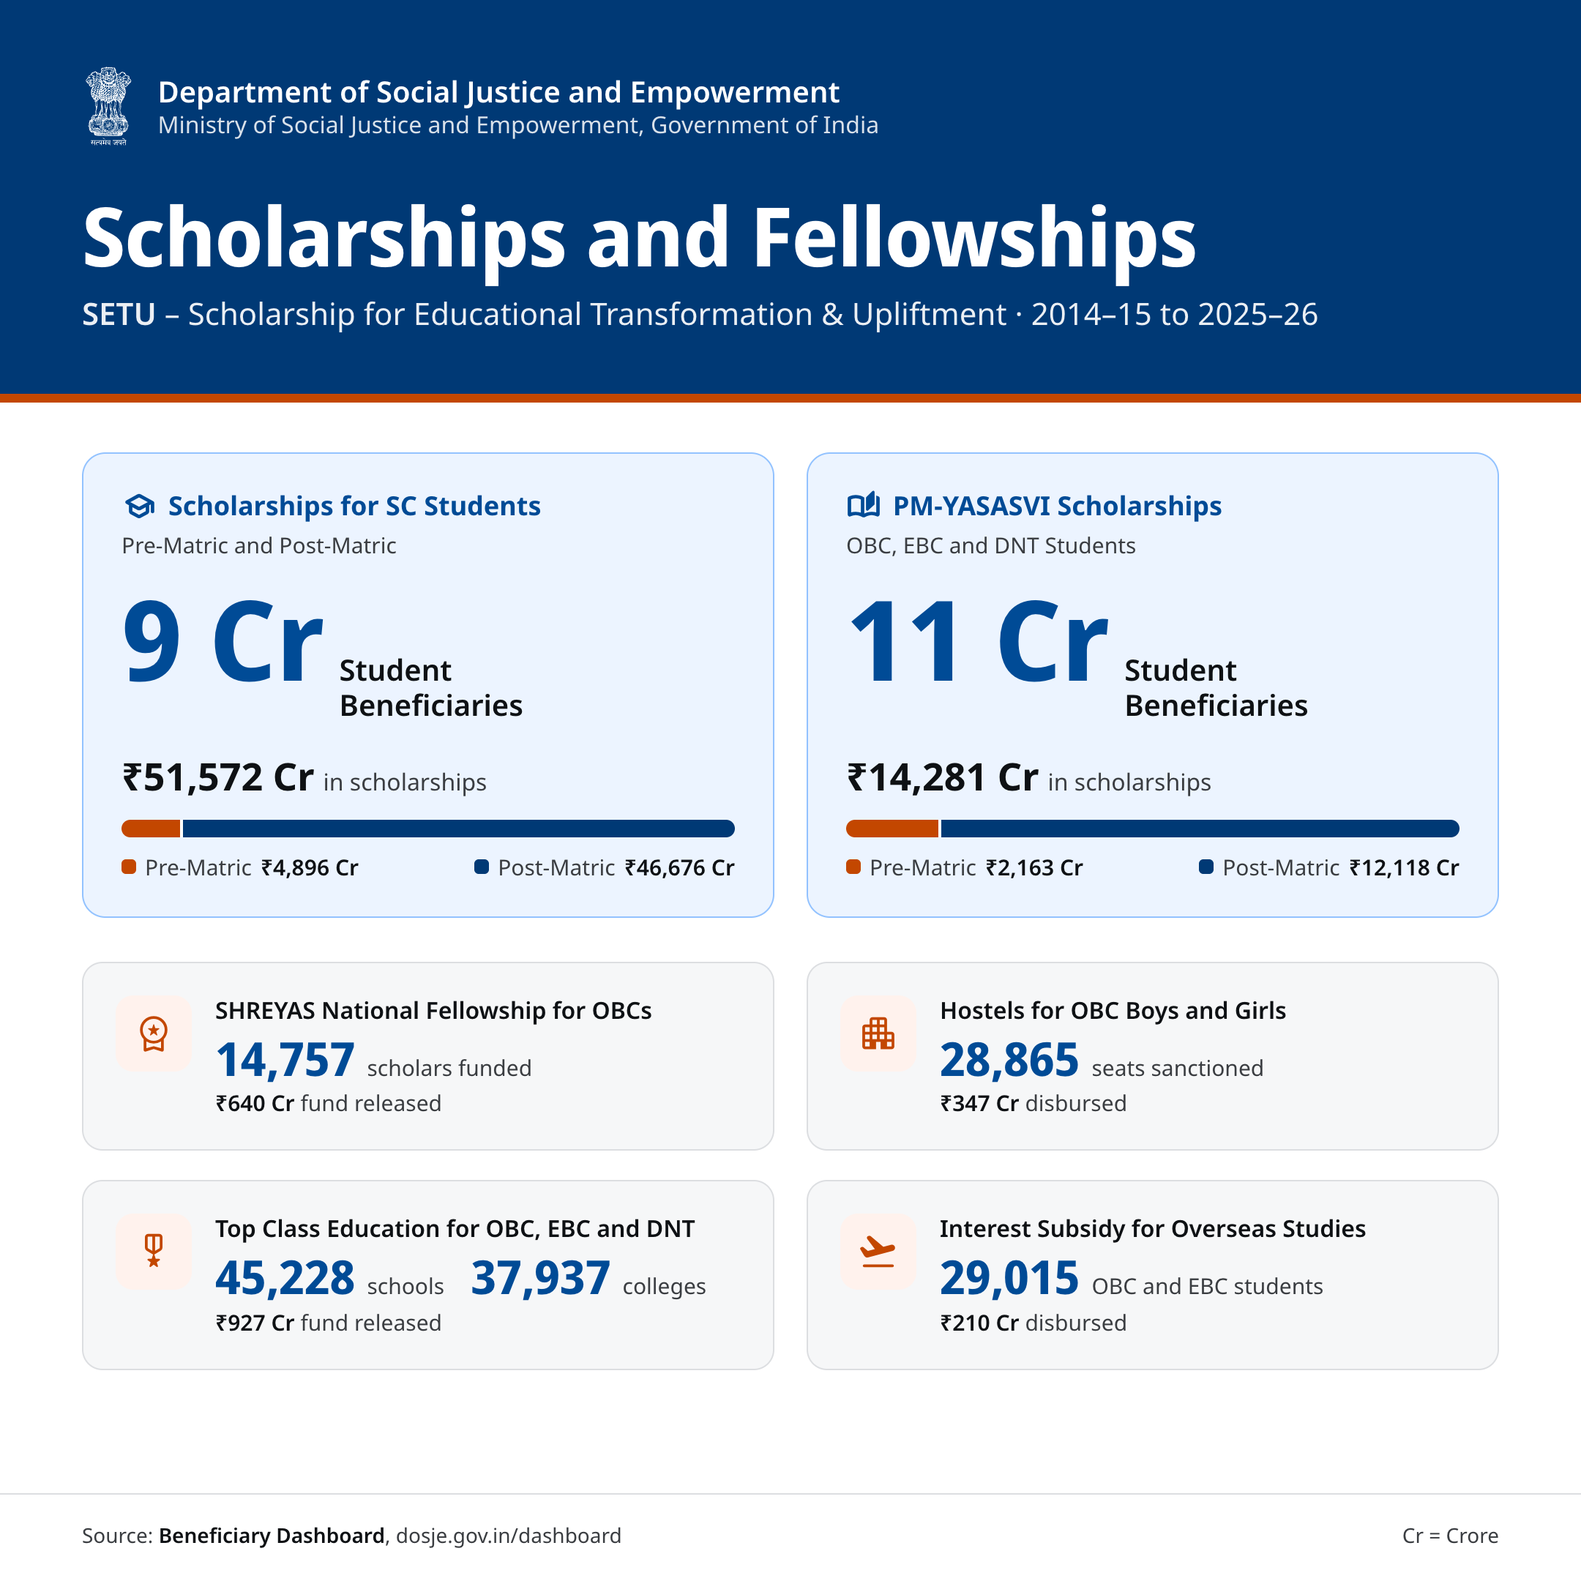
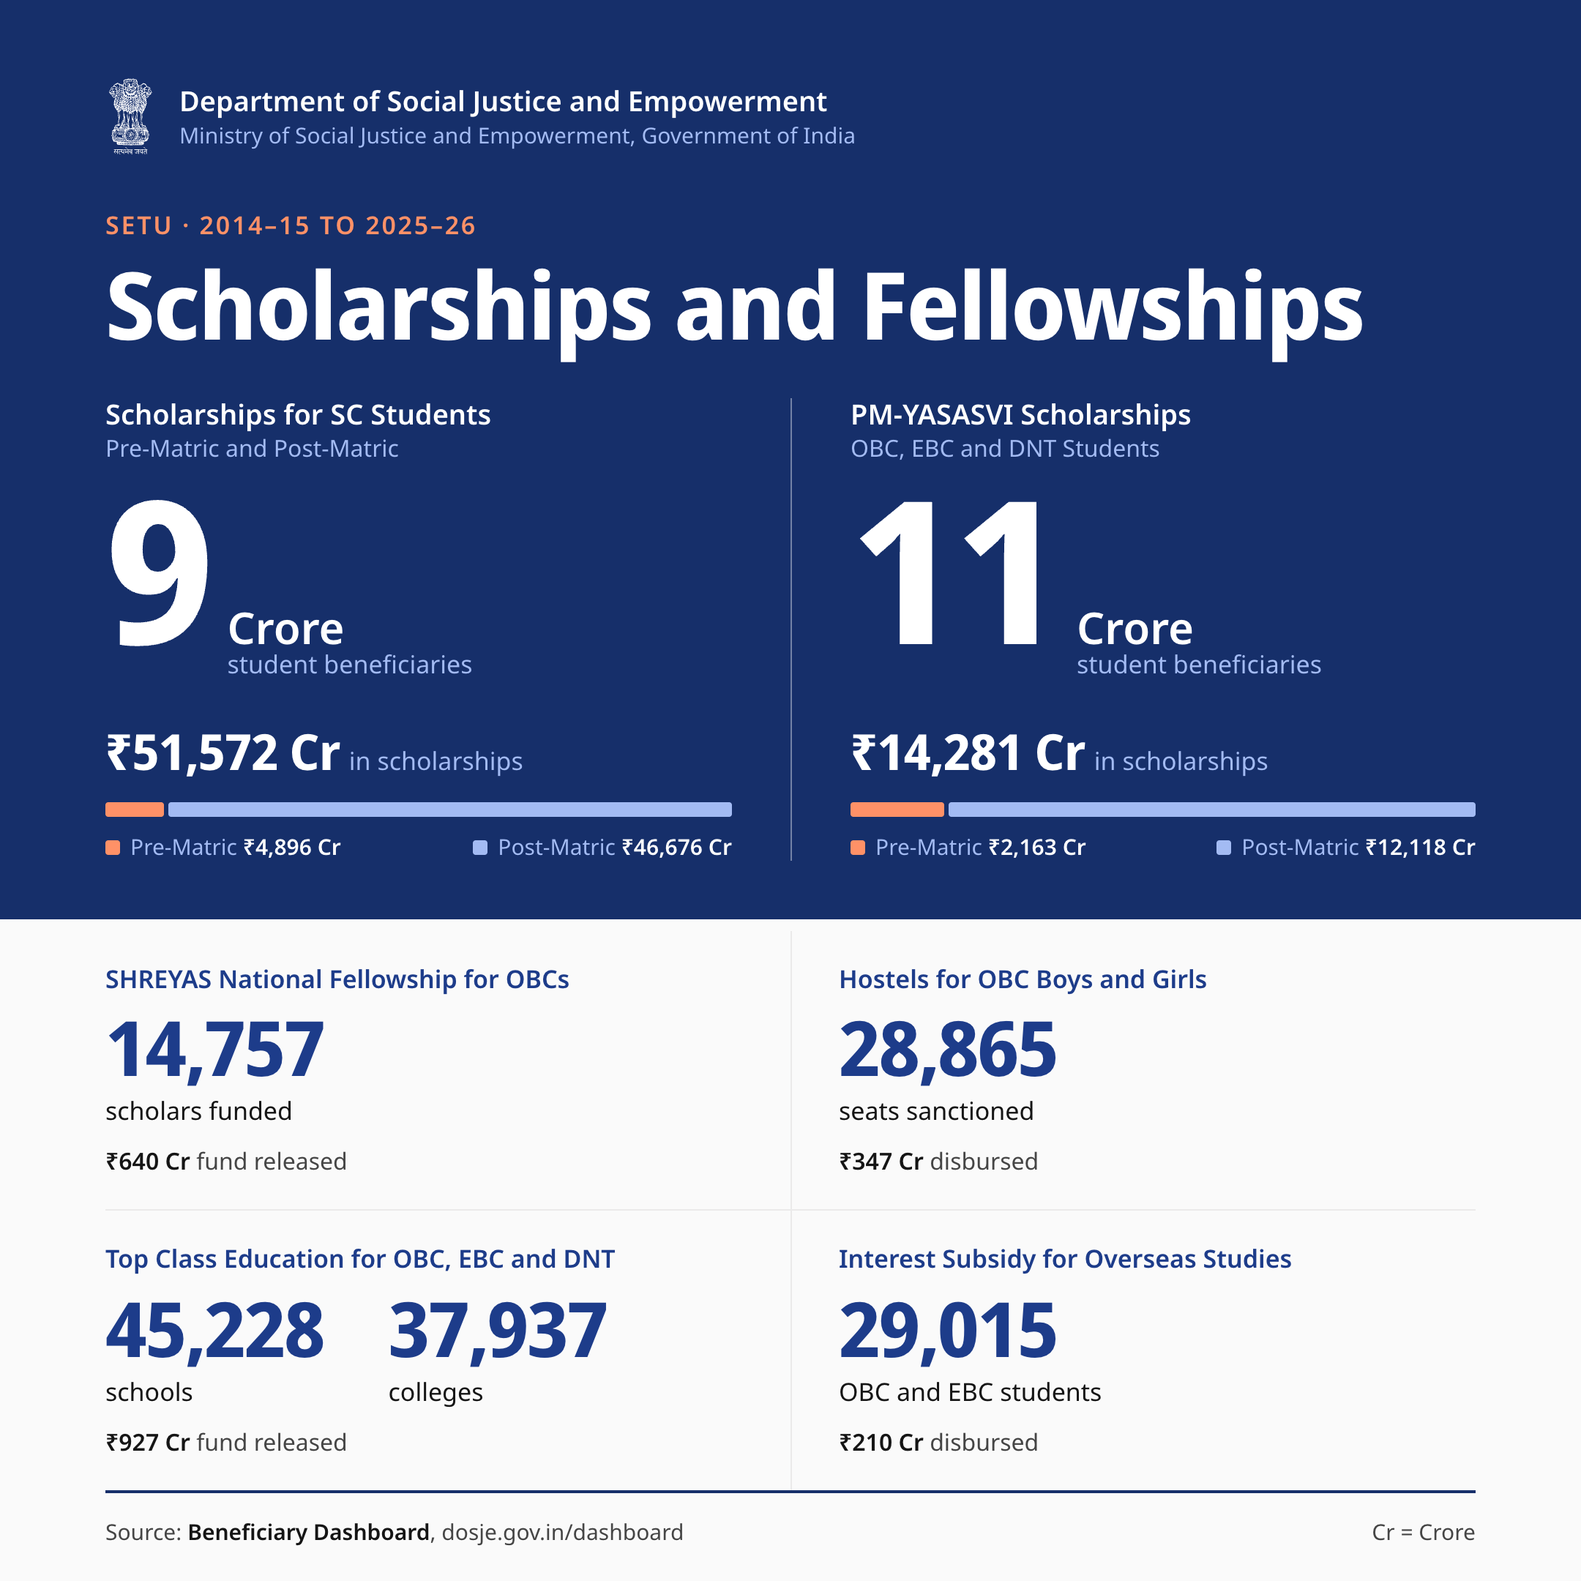
design(infographics): redraw Scholarships and Fellowships for the size it is seen at
The infographic is seen at about a quarter of its size, as the DBIM home
page's posts-row tile, where the first version's 15px labels became 3-4px
and its cards inside cards read as texture. Redrawn for the tile first and
the full-size viewer second:

- One DBIM-navy field carries the title and the two schemes that matter
  most, their figures at 136px, and the Pre-/Post-Matric split as bars.
- The four smaller schemes are set as type on a ruled grid, label under
  figure in every cell, so Top Class Education's two figures fit one cell.
- The six decorative icon badges are gone; the palette is DBIM's
  (data-brand="dbim") with one saffron accent, as it sits beside the DBIM
  social band.

Same figures, same source. The renderer now checks every block marked
data-fit, that the canvas stays square, and both Noto fonts; it caught
two height overruns during this pass.

diff --git a/tools/infographics/setu-scholarships.html b/tools/infographics/setu-scholarships.html
@@ -5,114 +5,163 @@
 <title>SETU Scholarships Infographic</title>
 <!-- Source: https://www.dosje.gov.in/dashboard/ (Beneficiary Dashboard), read 2026-09-28.
      Derived sums (same source, same period): SC 4,896 + 46,676 = 51,572;
-     PM-YASASVI 2,163 + 12,118 = 14,281; Top Class Education 117 + 810 = 927. -->
-<link rel="stylesheet" href="https://fonts.googleapis.com/css2?family=Noto+Sans:wght@400;500;600;700;800&family=Noto+Sans+Display:wght@600;700;800&display=block">
-<link rel="stylesheet" href="https://fonts.googleapis.com/css2?family=Material+Symbols+Rounded:opsz,wght,FILL,GRAD@24,300,0,0&display=block">
+     PM-YASASVI 2,163 + 12,118 = 14,281; Top Class Education 117 + 810 = 927.
+     The figures here must match apps/hub/src/lib/website/infographics.ts — that list is
+     the image's text version. Change one, change both, and re-render.
+
+     DESIGN, 28 Sep 2026. The picture is seen at two sizes: whole, in the full-size
+     viewer, and at about a quarter of that as the DBIM home page's posts-row tile. It
+     is drawn for the smaller one first — a title and two figures that still read at
+     ~250px — and carries the detail for the larger one. Type, not boxes: rules
+     divide the four smaller schemes, so nothing is a card inside a card. Colours are
+     the DBIM palette (data-brand="dbim"), because that is where it is placed. -->
+<link rel="stylesheet" href="https://fonts.googleapis.com/css2?family=Noto+Sans:wght@400;500;600;700&family=Noto+Sans+Display:wght@600;700;800&display=block">
 <link rel="stylesheet" href="../../packages/tokens/dist/tokens.css">
 <style>
   * { box-sizing: border-box; margin: 0; padding: 0; }
   html, body { width: 1080px; height: 1080px; }
-  body { font-family: var(--sa-ref-font-family-latin); color: var(--sa-text-neutral-bolder); background: var(--sa-bg-neutral-base); -webkit-font-smoothing: antialiased; }
-  .canvas { width: 1080px; height: 1080px; display: flex; flex-direction: column; }
-  .head { background: var(--sa-bg-brand-primary-boldest); color: var(--sa-text-neutral-inverse); padding: 44px 56px 40px; position: relative; }
-  .head::after { content: ""; position: absolute; left: 0; right: 0; bottom: -6px; height: 6px; background: var(--sa-bg-brand-secondary-bolder); }
-  .org { display: flex; align-items: center; gap: 16px; }
-  .org img { height: 58px; width: auto; }
-  .org-name { font-size: 20px; font-weight: var(--sa-font-weight-semibold); line-height: 1.25; }
-  .org-sub { font-size: 16px; opacity: .85; line-height: 1.3; }
-  h1 { font-family: var(--sa-ref-font-family-display); font-size: 56px; line-height: 1.08; font-weight: var(--sa-font-weight-bold); margin-top: 28px; letter-spacing: -0.5px; }
-  .standfirst { font-size: 21px; margin-top: 10px; opacity: .92; line-height: 1.35; }
-  .standfirst b { font-weight: var(--sa-font-weight-semibold); }
-  .body { flex: 1; padding: 40px 56px 32px; display: flex; flex-direction: column; gap: 30px; }
-  .hero { display: grid; grid-template-columns: 1fr 1fr; gap: 22px; }
-  .card { border: 1px solid var(--sa-border-neutral-subtle); border-radius: 16px; padding: 24px 26px; background: var(--sa-bg-neutral-base); }
-  .card.primary { background: var(--sa-bg-brand-primary-base); border-color: var(--sa-bg-brand-primary-subtle); }
-  .eyebrow { display: flex; align-items: center; gap: 8px; font-size: 18px; font-weight: var(--sa-font-weight-bold); color: var(--sa-text-brand-primary-bolder); line-height: 1.2; }
-  .who { font-size: 15px; color: var(--sa-text-neutral-subtle); margin-top: 4px; }
-  .big { display: flex; align-items: baseline; gap: 10px; margin-top: 16px; }
-  .big .n { font-family: var(--sa-ref-font-family-display); font-size: 76px; line-height: 1; font-weight: var(--sa-font-weight-bold); color: var(--sa-text-brand-primary-bolder); }
-  .big .u { font-size: 20px; font-weight: var(--sa-font-weight-semibold); color: var(--sa-text-neutral-bolder); line-height: 1.2; }
-  .fund { margin-top: 18px; font-size: 16px; color: var(--sa-text-neutral-subtle); }
-  .fund b { font-size: 26px; color: var(--sa-text-neutral-bolder); font-weight: var(--sa-font-weight-bold); margin-right: 6px; }
-  .bar { display: flex; height: 12px; border-radius: 6px; overflow: hidden; margin-top: 12px; gap: 2px; background: var(--sa-bg-neutral-base); }
-  .bar .pre  { background: var(--sa-bg-brand-secondary-bolder); }
-  .bar .post { background: var(--sa-bg-brand-primary-boldest); }
-  .split { display: flex; justify-content: space-between; margin-top: 10px; font-size: 15px; color: var(--sa-text-neutral-subtle); }
-  .split span { display: flex; align-items: center; gap: 6px; }
-  .split i { width: 10px; height: 10px; border-radius: 3px; display: inline-block; }
-  .split b { color: var(--sa-text-neutral-bolder); font-weight: var(--sa-font-weight-semibold); }
-  .tiles { display: grid; grid-template-columns: 1fr 1fr; gap: 20px 22px; }
-  .tile { display: grid; grid-template-columns: 52px 1fr; gap: 16px; align-items: start; padding: 22px 22px; border-radius: 14px; background: var(--sa-bg-neutral-subtlest); border: 1px solid var(--sa-border-neutral-subtle); }
-  .ico { width: 52px; height: 52px; border-radius: 12px; display: grid; place-items: center; background: var(--sa-bg-brand-secondary-base); color: var(--sa-icon-brand-secondary-bolder); }
-  .ms { font-family: "Material Symbols Rounded"; font-size: 30px; line-height: 1; font-variation-settings: "FILL" 0, "wght" 300, "GRAD" 0, "opsz" 24; }
-  .eyebrow .ms { font-size: 24px; }
-  .t-name { font-size: 16px; font-weight: var(--sa-font-weight-semibold); line-height: 1.25; color: var(--sa-text-neutral-bolder); }
-  .t-fig { display: flex; align-items: baseline; gap: 8px; margin-top: 6px; flex-wrap: wrap; }
-  .t-fig .n { font-family: var(--sa-ref-font-family-display); font-size: 32px; font-weight: var(--sa-font-weight-bold); color: var(--sa-text-brand-primary-bolder); line-height: 1.05; }
-  .t-fig .u { font-size: 15px; color: var(--sa-text-neutral-subtle); }
-  .t-fund { font-size: 15px; color: var(--sa-text-neutral-subtle); margin-top: 4px; }
-  .t-fund b { color: var(--sa-text-neutral-bolder); font-weight: var(--sa-font-weight-semibold); }
-  .foot { padding: 18px 56px 22px; display: flex; justify-content: space-between; align-items: center; font-size: 14px; color: var(--sa-text-neutral-subtle); border-top: 1px solid var(--sa-border-neutral-subtle); }
+  body { background: var(--sa-bg-neutral-subtlest); -webkit-font-smoothing: antialiased; }
+
+  .canvas {
+    width: 1080px; height: 1080px;
+    display: grid; grid-template-rows: auto 1fr auto;
+    font-family: var(--sa-ref-font-family-latin);
+    color: var(--sa-text-neutral-bolder);
+    background: var(--sa-bg-neutral-subtlest);
+  }
+  .num { font-family: var(--sa-ref-font-family-display); font-weight: var(--sa-font-weight-bold); font-variant-numeric: lining-nums; letter-spacing: -0.02em; }
+
+  /* ── The field: identity, title, the two figures that must survive the tile ── */
+  .field {
+    background: var(--sa-bg-brand-primary-boldest);
+    color: var(--sa-text-neutral-inverse);
+    padding: 52px 72px 40px;
+  }
+  .mast { display: flex; align-items: center; gap: 16px; }
+  .mast img { height: 56px; width: auto; }
+  .mast b { display: block; font-size: 19px; font-weight: var(--sa-font-weight-semibold); line-height: 1.25; }
+  .mast span { display: block; font-size: 15px; line-height: 1.35; color: var(--sa-bg-brand-primary-subtle); }
+
+  .kicker {
+    margin-top: 34px;
+    font-size: 17px; font-weight: var(--sa-font-weight-semibold); letter-spacing: 0.08em; text-transform: uppercase;
+    color: var(--sa-bg-brand-secondary-bold);
+  }
+  h1 {
+    margin-top: 10px;
+    font-family: var(--sa-ref-font-family-display);
+    font-size: 64px; line-height: 1.02; font-weight: var(--sa-font-weight-bold); letter-spacing: -0.015em;
+  }
+
+  .duo { display: grid; grid-template-columns: 1fr 1fr; margin-top: 32px; }
+  .duo > div { padding-right: 40px; }
+  .duo > div + div { padding: 0 0 0 40px; border-left: 1px solid var(--sa-border-neutral-inverse-subtle); }
+  .scheme { font-size: 19px; font-weight: var(--sa-font-weight-semibold); line-height: 1.25; }
+  .who { font-size: 16px; line-height: 1.3; color: var(--sa-bg-brand-primary-subtle); }
+  .big { margin-top: 10px; display: flex; align-items: baseline; gap: 12px; }
+  .big .num { font-size: 136px; line-height: 0.9; }
+  .big .unit { font-size: 30px; font-weight: var(--sa-font-weight-semibold); line-height: 1.1; }
+  .unit small { display: block; font-size: 17px; font-weight: var(--sa-font-weight-regular); color: var(--sa-bg-brand-primary-subtle); }
+
+  /* ── The split: where the money went, as a proportion ── */
+  .money { margin-top: 26px; }
+  .money .num { font-size: 34px; letter-spacing: -0.01em; }
+  .money .num small { font-family: var(--sa-ref-font-family-latin); font-size: 17px; font-weight: var(--sa-font-weight-regular); letter-spacing: 0; color: var(--sa-bg-brand-primary-subtle); margin-left: 6px; }
+  .bar { display: flex; gap: 3px; height: 10px; margin-top: 12px; }
+  .bar i { display: block; border-radius: 2px; }
+  .bar .pre { background: var(--sa-bg-brand-secondary-bold); }
+  .bar .post { background: var(--sa-bg-brand-primary-subtle); }
+  .legend { display: flex; justify-content: space-between; margin-top: 10px; font-size: 15px; color: var(--sa-bg-brand-primary-subtle); }
+  .legend b { color: var(--sa-text-neutral-inverse); font-weight: var(--sa-font-weight-semibold); }
+  .legend .k { display: inline-block; width: 10px; height: 10px; border-radius: 2px; margin-right: 7px; vertical-align: 0; }
+
+  /* ── The four smaller schemes: set as type on a ruled grid ── */
+  .more {
+    display: grid; grid-template-columns: 1fr 1fr; grid-template-rows: 1fr 1fr;
+    padding: 8px 72px 0;
+  }
+  .more > div { display: flex; flex-direction: column; justify-content: center; padding: 20px 32px 20px 0; border-bottom: 1px solid var(--sa-border-neutral-subtle); }
+  .more > div:nth-child(even) { padding-left: 32px; padding-right: 0; border-left: 1px solid var(--sa-border-neutral-subtle); }
+  .more > div:nth-child(n + 3) { border-bottom: 0; }
+  .more .scheme { font-size: 17px; color: var(--sa-text-brand-primary-bolder); }
+  /* Label UNDER its figure in every cell, so one cell can hold two figures and all
+     four read the same way. */
+  .more .fig { margin-top: 10px; display: flex; gap: 44px; }
+  .more .fig .num { display: block; font-size: 52px; line-height: 1; color: var(--sa-text-brand-primary-bolder); }
+  .more .fig .lbl { display: block; margin-top: 6px; font-size: 17px; color: var(--sa-text-neutral-bolder); }
+  .more .fund { margin-top: 12px; font-size: 16px; color: var(--sa-text-neutral-subtle); }
+  .more .fund b { color: var(--sa-text-neutral-bolder); font-weight: var(--sa-font-weight-semibold); }
+
+  .foot {
+    display: flex; justify-content: space-between; align-items: center;
+    margin: 0 72px; padding: 16px 0 24px;
+    border-top: 2px solid var(--sa-bg-brand-primary-boldest);
+    font-size: 15px; color: var(--sa-text-neutral-subtle);
+  }
   .foot b { color: var(--sa-text-neutral-bolder); font-weight: var(--sa-font-weight-semibold); }
 </style>
 </head>
 <body>
-<div class="canvas">
-  <header class="head">
-    <div class="org">
+<div class="canvas" data-brand="dbim">
+  <section class="field">
+    <div class="mast">
       <img src="../../apps/hub/public/website/images/National_Emblem_logo_white.svg" alt="State Emblem of India">
       <div>
-        <div class="org-name">Department of Social Justice and Empowerment</div>
-        <div class="org-sub">Ministry of Social Justice and Empowerment, Government of India</div>
+        <b>Department of Social Justice and Empowerment</b>
+        <span>Ministry of Social Justice and Empowerment, Government of India</span>
       </div>
     </div>
+
+    <p class="kicker">SETU · 2014–15 to 2025–26</p>
     <h1>Scholarships and Fellowships</h1>
-    <p class="standfirst"><b>SETU</b> – Scholarship for Educational Transformation &amp; Upliftment · 2014–15 to 2025–26</p>
-  </header>
-  <main class="body">
-    <section class="hero">
-      <article class="card primary">
-        <div class="eyebrow"><span class="ms">school</span>Scholarships for SC Students</div>
-        <div class="who">Pre-Matric and Post-Matric</div>
-        <div class="big"><span class="n">9 Cr</span><span class="u">Student<br>Beneficiaries</span></div>
-        <div class="fund"><b>₹51,572 Cr</b>in scholarships</div>
-        <div class="bar"><span class="pre" style="flex:4896"></span><span class="post" style="flex:46676"></span></div>
-        <div class="split">
-          <span><i style="background:var(--sa-bg-brand-secondary-bolder)"></i>Pre-Matric <b>₹4,896 Cr</b></span>
-          <span><i style="background:var(--sa-bg-brand-primary-boldest)"></i>Post-Matric <b>₹46,676 Cr</b></span>
+
+    <div class="duo">
+      <div data-fit>
+        <p class="scheme">Scholarships for SC Students</p>
+        <p class="who">Pre-Matric and Post-Matric</p>
+        <p class="big"><span class="num">9</span><span class="unit">Crore<small>student beneficiaries</small></span></p>
+        <div class="money">
+          <p class="num">₹51,572 Cr<small>in scholarships</small></p>
+          <div class="bar"><i class="pre" style="flex:4896"></i><i class="post" style="flex:46676"></i></div>
+          <p class="legend"><span><i class="k" style="background:var(--sa-bg-brand-secondary-bold)"></i>Pre-Matric <b>₹4,896 Cr</b></span><span><i class="k" style="background:var(--sa-bg-brand-primary-subtle)"></i>Post-Matric <b>₹46,676 Cr</b></span></p>
         </div>
-      </article>
-      <article class="card primary">
-        <div class="eyebrow"><span class="ms">auto_stories</span>PM-YASASVI Scholarships</div>
-        <div class="who">OBC, EBC and DNT Students</div>
-        <div class="big"><span class="n">11 Cr</span><span class="u">Student<br>Beneficiaries</span></div>
-        <div class="fund"><b>₹14,281 Cr</b>in scholarships</div>
-        <div class="bar"><span class="pre" style="flex:2163"></span><span class="post" style="flex:12118"></span></div>
-        <div class="split">
-          <span><i style="background:var(--sa-bg-brand-secondary-bolder)"></i>Pre-Matric <b>₹2,163 Cr</b></span>
-          <span><i style="background:var(--sa-bg-brand-primary-boldest)"></i>Post-Matric <b>₹12,118 Cr</b></span>
+      </div>
+      <div data-fit>
+        <p class="scheme">PM-YASASVI Scholarships</p>
+        <p class="who">OBC, EBC and DNT Students</p>
+        <p class="big"><span class="num">11</span><span class="unit">Crore<small>student beneficiaries</small></span></p>
+        <div class="money">
+          <p class="num">₹14,281 Cr<small>in scholarships</small></p>
+          <div class="bar"><i class="pre" style="flex:2163"></i><i class="post" style="flex:12118"></i></div>
+          <p class="legend"><span><i class="k" style="background:var(--sa-bg-brand-secondary-bold)"></i>Pre-Matric <b>₹2,163 Cr</b></span><span><i class="k" style="background:var(--sa-bg-brand-primary-subtle)"></i>Post-Matric <b>₹12,118 Cr</b></span></p>
         </div>
-      </article>
-    </section>
-    <section class="tiles">
-      <div class="tile"><div class="ico"><span class="ms">workspace_premium</span></div><div>
-        <div class="t-name">SHREYAS National Fellowship for OBCs</div>
-        <div class="t-fig"><span class="n">14,757</span><span class="u">scholars funded</span></div>
-        <div class="t-fund"><b>₹640 Cr</b> fund released</div></div></div>
-      <div class="tile"><div class="ico"><span class="ms">apartment</span></div><div>
-        <div class="t-name">Hostels for OBC Boys and Girls</div>
-        <div class="t-fig"><span class="n">28,865</span><span class="u">seats sanctioned</span></div>
-        <div class="t-fund"><b>₹347 Cr</b> disbursed</div></div></div>
-      <div class="tile"><div class="ico"><span class="ms">military_tech</span></div><div>
-        <div class="t-name">Top Class Education for OBC, EBC and DNT</div>
-        <div class="t-fig"><span class="n">45,228</span><span class="u">schools</span><span class="n" style="margin-left:10px">37,937</span><span class="u">colleges</span></div>
-        <div class="t-fund"><b>₹927 Cr</b> fund released</div></div></div>
-      <div class="tile"><div class="ico"><span class="ms">flight_takeoff</span></div><div>
-        <div class="t-name">Interest Subsidy for Overseas Studies</div>
-        <div class="t-fig"><span class="n">29,015</span><span class="u">OBC and EBC students</span></div>
-        <div class="t-fund"><b>₹210 Cr</b> disbursed</div></div></div>
-    </section>
-  </main>
+      </div>
+    </div>
+  </section>
+
+  <section class="more">
+    <div data-fit>
+      <p class="scheme">SHREYAS National Fellowship for OBCs</p>
+      <p class="fig"><span><span class="num">14,757</span><span class="lbl">scholars funded</span></span></p>
+      <p class="fund"><b>₹640 Cr</b> fund released</p>
+    </div>
+    <div data-fit>
+      <p class="scheme">Hostels for OBC Boys and Girls</p>
+      <p class="fig"><span><span class="num">28,865</span><span class="lbl">seats sanctioned</span></span></p>
+      <p class="fund"><b>₹347 Cr</b> disbursed</p>
+    </div>
+    <div data-fit>
+      <p class="scheme">Top Class Education for OBC, EBC and DNT</p>
+      <p class="fig"><span><span class="num">45,228</span><span class="lbl">schools</span></span><span><span class="num">37,937</span><span class="lbl">colleges</span></span></p>
+      <p class="fund"><b>₹927 Cr</b> fund released</p>
+    </div>
+    <div data-fit>
+      <p class="scheme">Interest Subsidy for Overseas Studies</p>
+      <p class="fig"><span><span class="num">29,015</span><span class="lbl">OBC and EBC students</span></span></p>
+      <p class="fund"><b>₹210 Cr</b> disbursed</p>
+    </div>
+  </section>
+
   <footer class="foot">
     <span>Source: <b>Beneficiary Dashboard</b>, dosje.gov.in/dashboard</span>
     <span>Cr = Crore</span>
